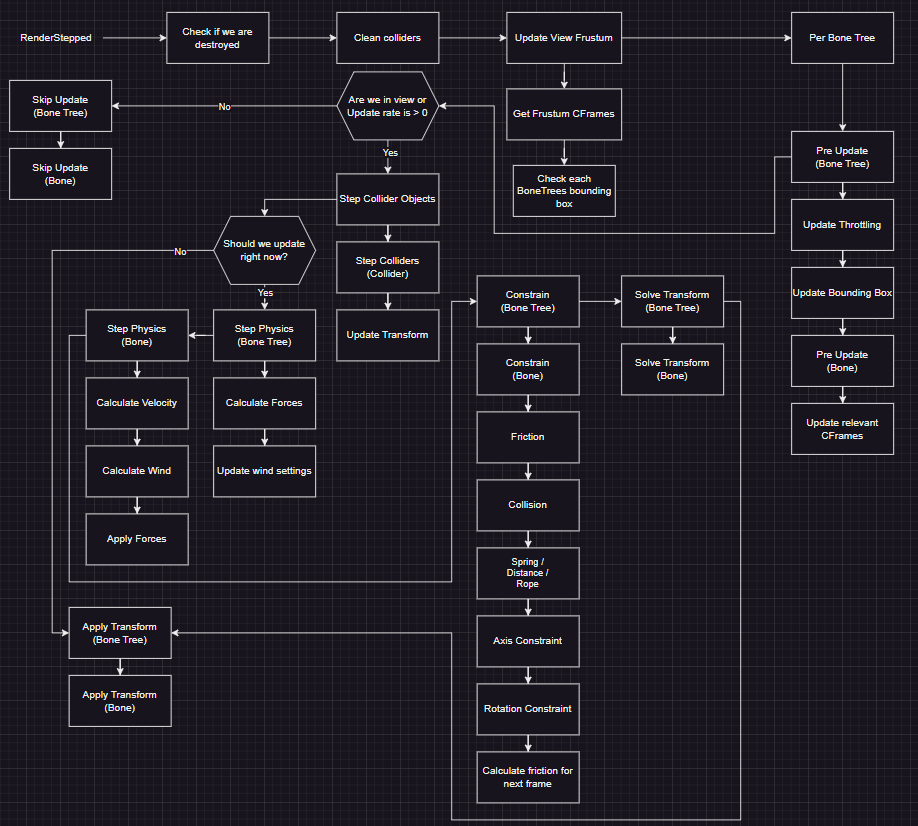
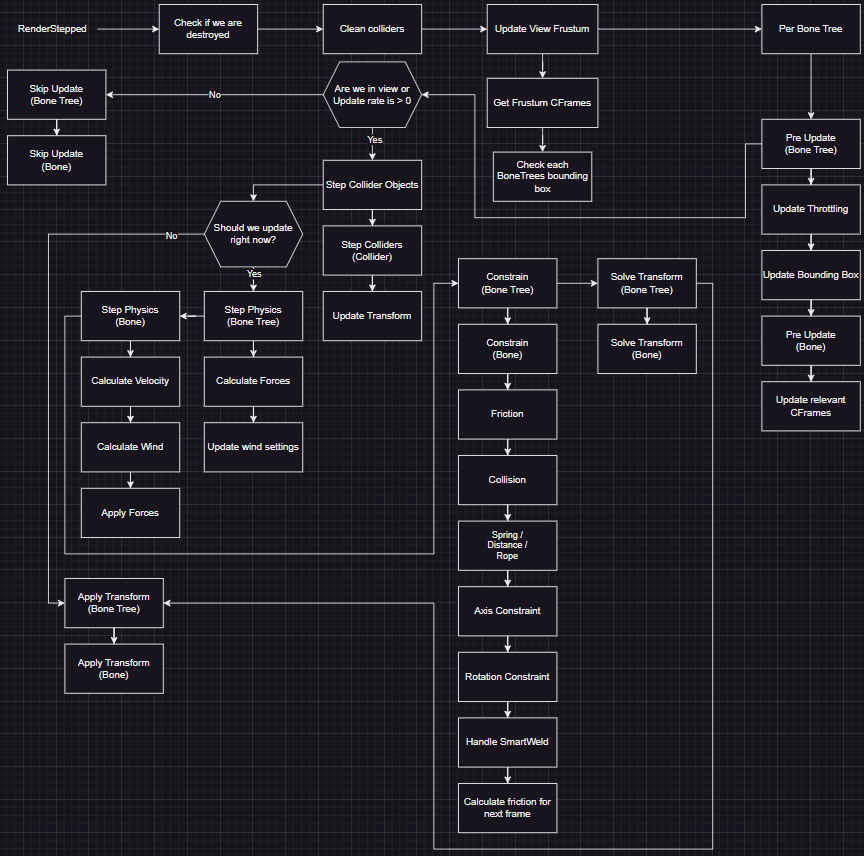
docs: add smartweld, add wally install step, minor edits

Changed region(s): [[0.0, 0.0, 1.0, 0.9988], [0.8125, 0.1211, 1.0, 0.5448], [0.7812, 0.9685, 0.8125, 0.9988]]

diff --git a/docs/intro.md b/docs/intro.md
@@ -12,6 +12,9 @@ There are multiple ways to work with SmartBone, here I will cover the basic side
 
 First of all you need to setup SmartBone! You can find the latest release with a rbxm, rbxl and source code zip [here](https://github.com/CelnakRBLX/SmartBone-2/releases)
 
+If your using wally you can install via:
+`smartbone-2 = "jakeywastaken/smartbone-2@^0.3.0"`
+
 If you're working in studio you will want to download the rbxm and drag it into your game. If you just want to play around with a demo then open the rbxl file. If you're using rojo or something similar then you can use the source code (.zip)
 
 ### Basic Setup
@@ -26,13 +29,13 @@ SmartBone.Start() -- Start the runtime
 
 This is all you have to do for coding, now we just setup your mesh with the tags and attributes.
 
-- Select any MeshPart with Bones under it
+- Select any [MeshPart](https://create.roblox.com/docs/reference/engine/classes/MeshPart) with Bones under it
 
-- Add the tag “SmartBone” to the MeshPart.
+- Add the tag “SmartBone” to the [MeshPart](https://create.roblox.com/docs/reference/engine/classes/MeshPart).
 
-- Add a string attribute called “Roots” to the MeshPart and fill it with the name(s) of the bone(s) you want to be root(s).
+- Add a string attribute called “Roots” to the [MeshPart](https://create.roblox.com/docs/reference/engine/classes/MeshPart) and fill it with the name(s) of the bone(s) you want to be root(s).
 
-- Separate each bone name with “,” and the Module will automatically sort your bone(s) into a list.
+- Separate each [Bone](https://create.roblox.com/docs/reference/engine/classes/MeshPart) name with “,” and the Module will automatically sort your bone(s) into a list.
 
 - An example of a SmartBone object with multiple roots would have a Roots attribute that looks like this: “Root1,Root2,Root3”
 
@@ -58,6 +61,13 @@ You can limit a bone to moving between 0 studs and 5 studs on the x axis relativ
 Colliders can be setup via a tag with the name "SmartCollider", you can optimize colliders using a collider key, create a string attribute called "ColliderKey" on your root part and your collider. Now only colliders with that collider key can collide with your object.
 
 You can also manually change the shape of a collider using a string attribute called "ColliderShape" with an option of "Box", "Capsule", "Cylinder" and "Sphere".
+
+### Plugins
+
+The plugins streamline a lot of this process they can be found here:
+
+- [Collider Creator](https://create.roblox.com/store/asset/15539103407/Collider-Creator) \[Free\]
+- [Smartbone Editor](https://create.roblox.com/store/asset/15539148341/SmartBone-Editor) \[150 Robux\]
 
 ## Update Flow Chart
 ![](assets/flowchart.png)

diff --git a/docs/smartweld.md b/docs/smartweld.md
@@ -1,0 +1,14 @@
+---
+sidebar_position: 4
+---
+# SmartWeld
+
+### Setup
+
+- Under any bone create an [ObjectValue](https://create.roblox.com/docs/reference/engine/classes/ObjectValue) called "SmartWeld", set its value to one of the following: [Attachment](https://create.roblox.com/docs/reference/engine/classes/Attachment), [Bone](https://create.roblox.com/docs/reference/engine/classes/Bone) or a [BasePart](https://create.roblox.com/docs/reference/engine/classes/BasePart)
+
+---
+
+**Optional Attributes**
+
+- \[*Boolean*\] Rigid - If false a spring will be used, if true then the bone will be moved in the direction of the weld point with no smoothing

diff --git a/docs/smartbone.md b/docs/smartbone.md
@@ -34,6 +34,8 @@ Each constraint has it's own purpose,
 
 - Rope will keep the bones distance between 0 and their rest length and is always pulled downwards
 
+- Rotation, details can be found [here](bone.md)
+
 ### Wind
 
 Wind can be controlled via GlobalWind (MatchWorkspaceWind must be true) or through attributes in Lighting.

diff --git a/docs/optimization.md b/docs/optimization.md
@@ -1,5 +1,5 @@
 ---
-sidebar_position: 5
+sidebar_position: 6
 ---
 # Optimization
 

diff --git a/docs/bone.md b/docs/bone.md
@@ -1,5 +1,5 @@
 ---
-sidebar_position: 4
+sidebar_position: 5
 ---
 # Bone
 
